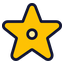
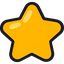
Give LiveRadar a new favourite star and a super-favourite star for Mr.Quin
Both icons are one pair generated with GPT Image 2.6 Sunburst in the
same style: a plump rounded star with a dark ink outline and flat gold
fill (the owner had its centre ring removed), and for Mr.Quin's rooms
the same star with a crimson heart inside a burst of gold rays. Every
place that drew the favourite star now asks _fav_icon_kind, so his
Bilibili, Kick and Douyin rooms show superfav.png and other favourites
fav.png. The super star is drawn 1.4 times its slot so its star matches
the plain one and only the rays reach past it. His avatar edge follows
the new star's gold (254, 182, 1). SOURCES.md records the job and steps.

diff --git a/inkypi-weather/package/InkyPi/src/plugins/live_radar/live_radar.py b/inkypi-weather/package/InkyPi/src/plugins/live_radar/live_radar.py
@@ -231,7 +231,7 @@ FOOTER_LOGO_HEIGHT = 15
 FOOTER_LOGO_GAP = (10, 26)
 STATUS_ICON_FILES = {
     kind: os.path.join(PLUGIN_DIR, "status_icons", f"{kind}.png")
-    for kind in ("live", "fav")
+    for kind in ("live", "fav", "superfav")
 }
 TITLE_LOGO_FILE = "liveradar_logo.png"
 TITLE_WORDMARK_FILE = "liveradar_wordmark.png"
@@ -329,8 +329,12 @@ TOP_FAVORITE_ROOMS = (
     ("kick", "quin3614"),
     ("douyin", "200525029536"),  # 摸鱼奎恩
 )
-# His avatar's 1 px edge is drawn in the favourite star's gold instead of ink, wherever it is drawn.
-TOP_FAVORITE_RING_GOLD = (254, 194, 3)
+# His avatar's 1 px edge is drawn in the favourite star's gold instead of ink, wherever it is drawn,
+# and his rooms wear the super-favourite star (status_icons/superfav.png) where others wear fav.png.
+TOP_FAVORITE_RING_GOLD = (254, 182, 1)
+# The super-favourite star sits inside a burst of rays; drawn this much larger than a plain star's
+# slot, its own star comes out the same size as the plain one beside it.
+SUPERFAV_BADGE_SCALE = 1.4
 FAVORITE_PRIORITY = {
     **{room: rank for rank, room in enumerate(TOP_FAVORITE_ROOMS)},
     ("douyu", "60937"): 3,
@@ -2097,7 +2101,7 @@ class LiveRadar(BasePlugin):
                 image,
                 draw,
                 (icon_right - 23, icon_y, icon_right, icon_y + 23),
-                "fav",
+                self._fav_icon_kind(card),
                 fill=fill,
                 ink=ink,
                 outline=muted,
@@ -2134,7 +2138,7 @@ class LiveRadar(BasePlugin):
                 image,
                 draw,
                 (star_right - star, star_top, star_right, star_top + star),
-                "fav",
+                self._fav_icon_kind(card),
                 fill=fill,
                 ink=ink,
                 outline=muted,
@@ -2380,8 +2384,8 @@ class LiveRadar(BasePlugin):
         if card.get("is_fav"):
             star = 11
             star_top = y + (h - star) // 2
-            self._draw_icon_badge(image, draw, (right - star, star_top, right, star_top + star), "fav",
-                                  fill=panel, ink=ink, outline=ink)
+            self._draw_icon_badge(image, draw, (right - star, star_top, right, star_top + star),
+                                  self._fav_icon_kind(card), fill=panel, ink=ink, outline=ink)
             right -= star + 3
         text_x = avatar_x + avatar + 6
         text_w = max(12, right - 2 - text_x)
@@ -2815,7 +2819,7 @@ class LiveRadar(BasePlugin):
                 image,
                 draw,
                 (right - star, star_top, right, star_top + star),
-                "fav",
+                self._fav_icon_kind(card),
                 fill=theme["panel"],
                 ink=theme["ink"],
                 outline=theme["ink"],
@@ -2923,7 +2927,7 @@ class LiveRadar(BasePlugin):
                 image,
                 draw,
                 (badge_right - icon_size, platform_y, badge_right, platform_y + icon_size),
-                "fav",
+                self._fav_icon_kind(card),
                 fill=fill,
                 ink=ink,
                 outline=muted,
@@ -3013,7 +3017,7 @@ class LiveRadar(BasePlugin):
         if show_fav_badge and card.get("is_fav"):
             badge_size = max(10, int(avatar_size * 0.38))
             badge = (avatar_x + avatar_size - badge_size, avatar_y + avatar_size - badge_size, avatar_x + avatar_size + 1, avatar_y + avatar_size + 1)
-            self._draw_icon_badge(image, draw, badge, "fav", fill=ink, ink=fill, outline=ink)
+            self._draw_icon_badge(image, draw, badge, self._fav_icon_kind(card), fill=ink, ink=fill, outline=ink)
 
     def _draw_quiet_panel(self, draw, box, tracked_count, theme):
         x, y, w, h = box
@@ -3463,6 +3467,12 @@ class LiveRadar(BasePlugin):
 
     def _draw_icon_badge(self, image, draw, box, kind, fill, ink, outline):
         left, top, right, bottom = [int(v) for v in box]
+        if kind == "superfav":
+            # Its rays ring the star, so it is drawn larger: its star matches the plain one in the
+            # same slot and the rays reach a little past it.
+            grow_x = round((right - left) * (SUPERFAV_BADGE_SCALE - 1) / 2)
+            grow_y = round((bottom - top) * (SUPERFAV_BADGE_SCALE - 1) / 2)
+            left, top, right, bottom = left - grow_x, top - grow_y, right + grow_x, bottom + grow_y
         size = max(1, min(right - left, bottom - top))
         asset = self._load_status_icon_asset(kind)
         if asset is not None:
@@ -3494,7 +3504,7 @@ class LiveRadar(BasePlugin):
             arc_pad = max(3, size // 4)
             arc_box = (left + arc_pad, top + arc_pad - 1, right - arc_pad, bottom - arc_pad + 1)
             draw.arc(arc_box, start=290, end=70, fill=ink, width=max(1, size // 14))
-        elif kind == "fav":
+        elif kind in ("fav", "superfav"):
             draw.polygon(self._star_points(cx, cy, size * 0.33, size * 0.15), fill=ink)
         return left
 
@@ -3829,6 +3839,11 @@ class LiveRadar(BasePlugin):
     @staticmethod
     def _is_top_favorite(platform, room_id):
         return (str(platform or "").lower(), str(room_id or "")) in TOP_FAVORITE_ROOMS
+
+    @staticmethod
+    def _fav_icon_kind(card):
+        """Mr.Quin's rooms wear the super-favourite star; every other favourite the plain one."""
+        return "superfav" if LiveRadar._is_top_favorite(card.get("platform"), card.get("id")) else "fav"
 
     @staticmethod
     def _status_kind(status):

diff --git a/inkypi-weather/package/InkyPi/tests/test_live_radar.py b/inkypi-weather/package/InkyPi/tests/test_live_radar.py
@@ -2628,7 +2628,7 @@ def test_live_radar_uses_local_transparent_color_icon_assets():
     plugin_dir = Path(live_radar_module.PLUGIN_DIR)
     expected = {
         "platform_icons": ("bilibili.png", "douyu.png", "twitch.png"),
-        "status_icons": ("fav.png", "live.png"),
+        "status_icons": ("fav.png", "superfav.png", "live.png"),
     }
 
     for directory, names in expected.items():
@@ -4256,6 +4256,42 @@ def test_every_mr_quin_room_draws_his_avatar_edge_in_gold_at_the_usual_width(pla
 
         assert image.getpixel((10, middle)) == live_radar_module.TOP_FAVORITE_RING_GOLD
         assert image.getpixel((11, middle)) == (40, 120, 200)  # still 1 px: his photo starts right inside
+
+
+def _star_kinds_on_a_dashboard(monkeypatch, rooms):
+    plugin = _plugin()
+    kinds = []
+    draw_status = plugin._draw_icon_badge
+
+    def capture(image, draw, box, kind, *args, **kwargs):
+        kinds.append(kind)
+        return draw_status(image, draw, box, kind, *args, **kwargs)
+
+    monkeypatch.setattr(plugin, "_draw_icon_badge", capture)
+    cards = [
+        {"platform": platform, "id": room_id, "owner": room_id, "label": "", "title": "stream", "status": status,
+         "is_fav": True, "heat": 10, "start_time": None, "cover": "", "avatar": "",
+         "favorite_rank": LiveRadar._favorite_priority(platform, room_id)}
+        for platform, room_id, status in rooms
+    ]
+    plugin._render_dashboard(cards, (800, 480), plugin._theme({}, FakeDeviceConfig()), datetime.now(timezone.utc),
+                             False, None, {"show_snapshots": False})
+    return kinds
+
+
+def test_mr_quins_rooms_wear_the_super_favourite_star_and_others_the_plain_one(monkeypatch):
+    assert [LiveRadar._fav_icon_kind({"platform": p, "id": i}) for p, i in QUIN_ROOMS] == ["superfav"] * 3
+    assert LiveRadar._fav_icon_kind({"platform": "douyu", "id": "60937"}) == "fav"
+
+    with_quin = _star_kinds_on_a_dashboard(monkeypatch, [
+        ("bilibili", "545318", "live"), ("douyu", "60937", "live"),
+        ("kick", "quin3614", "offline"), ("douyu", "12306", "offline"),
+    ])
+    without_quin = _star_kinds_on_a_dashboard(monkeypatch, [("douyu", "60937", "live"), ("douyu", "12306", "offline")])
+
+    assert "superfav" in with_quin and "fav" in with_quin
+    assert "superfav" not in without_quin and "fav" in without_quin
+    assert LiveRadar._load_status_icon_asset("superfav") is not None
 
 
 def test_other_streamers_keep_a_thin_ink_avatar_edge():

diff --git a/inkypi-weather/package/InkyPi/src/plugins/live_radar/status_icons/SOURCES.md b/inkypi-weather/package/InkyPi/src/plugins/live_radar/status_icons/SOURCES.md
@@ -1,10 +1,20 @@
 # LiveRadar status icon sources
 
-`live.png` and `fav.png` were generated with the built-in img-2 workflow for
-this LiveRadar card-wall redesign. The generated glyphs were placed on flat
-chroma-key backgrounds, converted to real alpha with the imagegen skill's
-`remove_chroma_key.py` helper, cropped to their visible bounds, and
+`live.png` was generated with the built-in img-2 workflow for this LiveRadar
+card-wall redesign. The generated glyph was placed on a flat chroma-key
+background, converted to real alpha with the imagegen skill's
+`remove_chroma_key.py` helper, cropped to its visible bounds, and
 proportionally normalized onto a 64x64 transparent canvas.
+
+`fav.png` (favourite) and `superfav.png` (super favourite, Mr.Quin's rooms) are
+one pair generated on 2026-11-08 with GPT Image 2.6 Sunburst (Creative Claw job
+ca12e890-8021-441a-a3fb-448af35ab1c1, 1536x768 transparent PNG): a plump
+rounded five-point star with a dark ink outline, flat gold fill and highlights,
+and the same star with a crimson heart at its centre inside a burst of eight
+short gold rays. The owner chose this pair and asked for the plain star's
+centre ring to be removed, so that ring was painted over with the star face's
+own gold. The model's faint outer glow was dropped by alpha threshold, each
+icon cropped to its visible bounds, centred on a square and scaled to 64x64.
 
 No background color is baked into the final assets. The runtime retains the
 glyphs' transparent background and pastes them directly without a badge border
